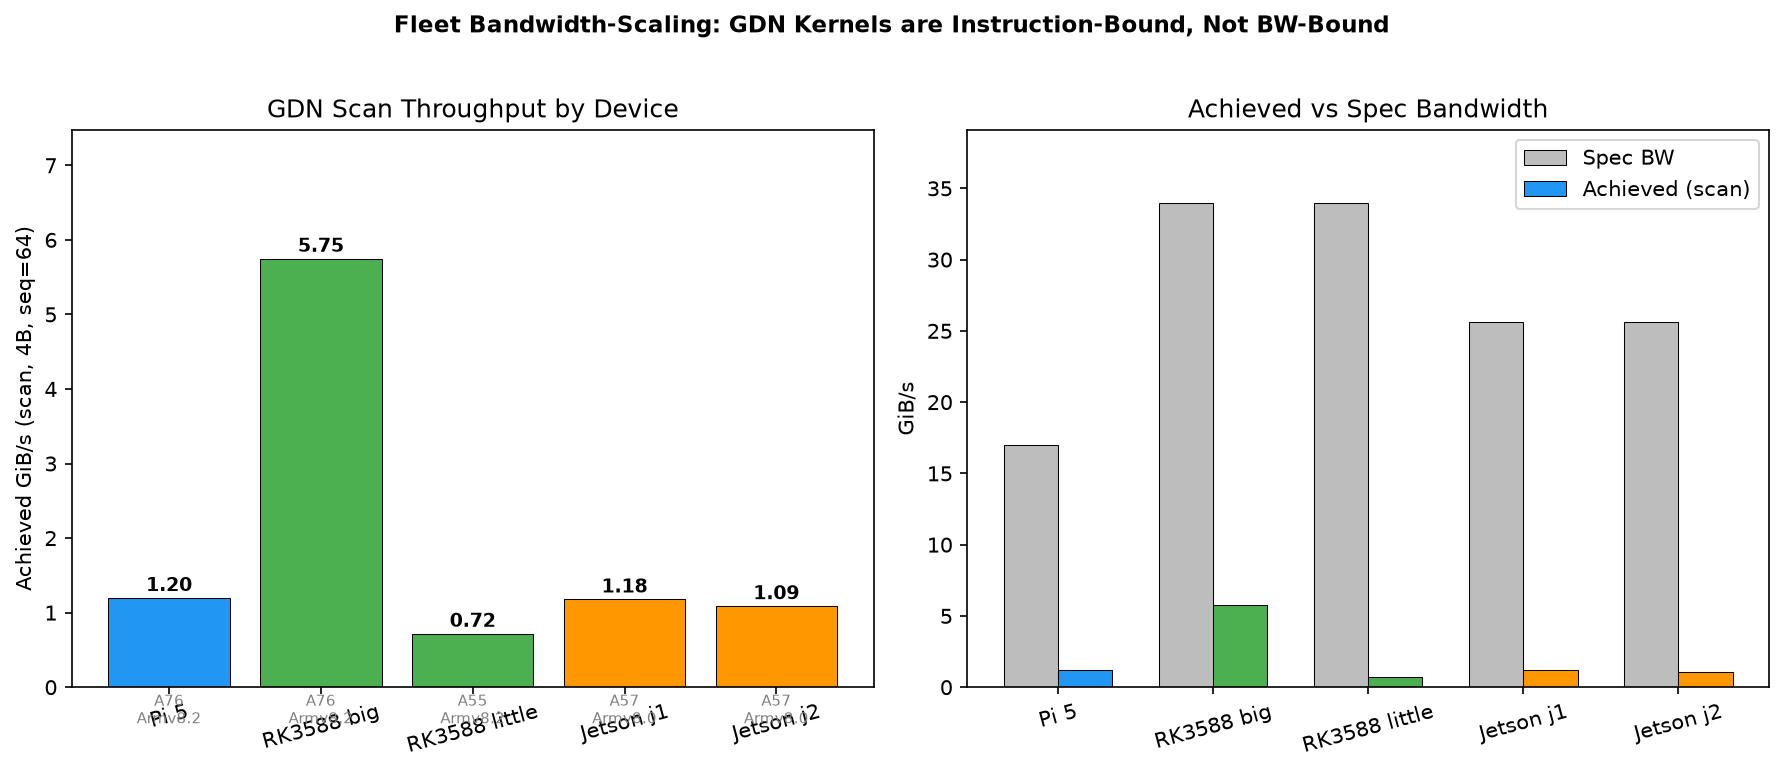
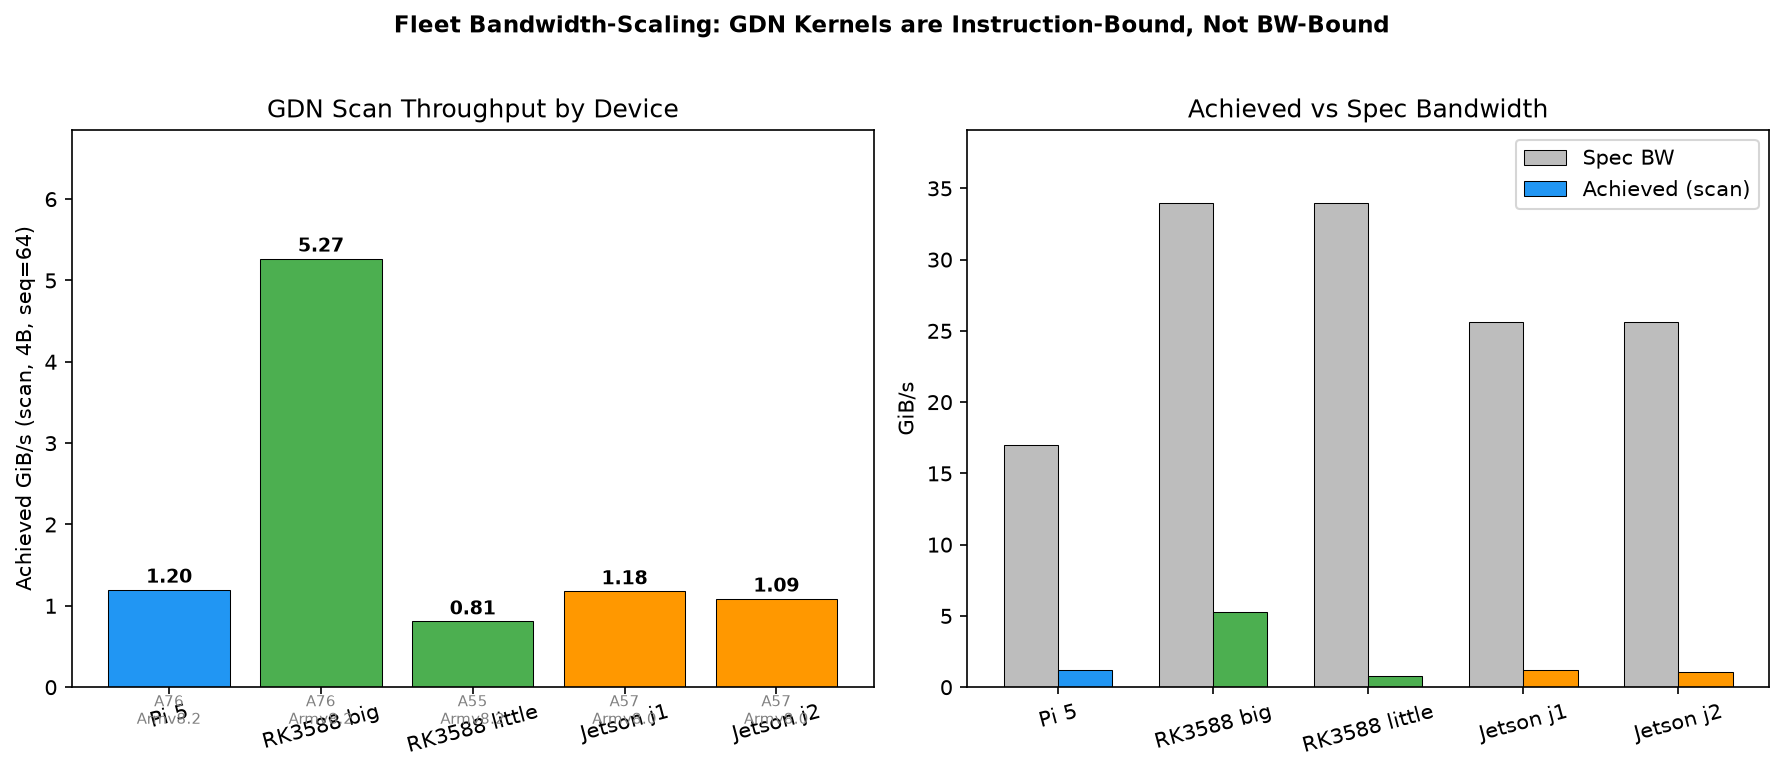
t4: fix -clean CSVs to single-core (sweep standard) + regenerate figures
The -clean CSVs were accidentally re-run multi-core in the previous commit.
Re-ran with OMP_NUM_THREADS=1 taskset -c N (single core) to match the
fleet sweep protocol. Regenerated fleet_bandwidth_scaling.md and
partial_comparison_table.md accordingly.

diff --git a/results/figures/fleet_bandwidth_scaling.md b/results/figures/fleet_bandwidth_scaling.md
@@ -27,20 +27,20 @@ See the optimization-impact section below for multi-threaded results.
 | Device | Spec (GiB/s) | CumDecay | Scan | DWConv1D | Scan/Spec | Scan spread |
 |--------|-------------|----------|------|----------|-----------|-------------|
 | Pi 5 | 17.0 | 3.74 | 1.20 | 3.23 | 7.1% | 7.4% |
-| RK3588 big | 34.0 | 7.46 | 5.75 | 6.99 | 16.9% | **12.0%** ⚠ |
-| RK3588 little | 34.0 | 1.48 | 0.72 | 0.70 | 2.1% | **20.0%** ⚠ |
+| RK3588 big | 34.0 | 7.29 | 5.27 | 6.98 | 15.5% | 6.3% |
+| RK3588 little | 34.0 | 1.41 | 0.81 | 1.12 | 2.4% | 2.8% |
 | Jetson j1 | 25.6 | 1.59 | 1.18 | 1.41 | 4.6% | 2.8% |
 | Jetson j2 | 25.6 | 1.50 | 1.09 | 0.93 | 4.3% | **16.7%** ⚠ |
 
-⚠ 3 of 5 scan rows exceed the DEVICE_RUNBOOK's ~10% cleanliness threshold, worst RK3588 little at 20.0%. The runbook says to suspect thermal throttling first. Treat flagged rows as indicative only.
+⚠ 1 of 5 scan rows exceed the DEVICE_RUNBOOK's ~10% cleanliness threshold, worst Jetson j2 at 16.7%. The runbook says to suspect thermal throttling first. Treat flagged rows as indicative only.
 
 ### 0.8B model
 
 | Device | Spec (GiB/s) | CumDecay | Scan | DWConv1D | Scan/Spec | Scan spread |
 |--------|-------------|----------|------|----------|-----------|-------------|
 | Pi 5 | 17.0 | 4.47 | 4.43 | 4.55 | 26.1% | 6.5% |
-| RK3588 big | 34.0 | 7.51 | 7.93 | 8.15 | 23.3% | 6.1% |
-| RK3588 little | 34.0 | 1.67 | 1.36 | 1.84 | 4.0% | 8.8% |
+| RK3588 big | 34.0 | 8.09 | 7.30 | 6.90 | 21.5% | 4.3% |
+| RK3588 little | 34.0 | 1.65 | 1.40 | 1.54 | 4.1% | 2.5% |
 | Jetson j1 | 25.6 | 3.59 | 2.73 | 2.88 | 10.7% | **27.2%** ⚠ |
 | Jetson j2 | 25.6 | 3.24 | 1.65 | 2.43 | 6.4% | **40.8%** ⚠ |
 
@@ -78,11 +78,11 @@ cross-device effects being interpreted (bead `ob-bf7`):
 
 | Device class | Runs (scan, 4B, GiB/s) | Spread | Why it matters |
 |---|---|---:|---|
-| RK3588 big | t3 2.91 vs t4 5.75 | **1.98x** | same source commit `234807d46c95`, same core class |
-| RK3588 little | t3 0.55 vs t4 0.72 | **1.31x** | same source commit `234807d46c95`, same core class |
+| RK3588 big | t3 2.91 vs t4 5.27 | **1.81x** | same source commit `234807d46c95`, same core class |
+| RK3588 little | t3 0.55 vs t4 0.81 | **1.47x** | same source commit `234807d46c95`, same core class |
 | Jetson | j1 1.18 vs j2 1.09 | **1.08x** | same source commit `234807d46c95`, same core class |
 
-The fleet sweep (ob-bf7) resolved the provenance question: all RK3588 and Jetson replicates are now at the **same commit** (`234807d`), clean tree, single-threaded. Despite commit-matching, the RK3588 pair still disagrees by **1.98x** — a genuine inter-board effect (thermal, silicon binning, or background load), not a code-version artifact. The Jetson pair agrees within ~8%, in normal range. Pi 5 is not in the replicate comparison (only one unit).
+The fleet sweep (ob-bf7) resolved the provenance question: all RK3588 and Jetson replicates are now at the **same commit** (`234807d`), clean tree, single-threaded. Despite commit-matching, the RK3588 pair still disagrees by **1.81x** — a genuine inter-board effect (thermal, silicon binning, or background load), not a code-version artifact. The Jetson pair agrees within ~8%, in normal range. Pi 5 is not in the replicate comparison (only one unit).
 
 ### Provenance audit: were these runs captured from a clean tree?
 
@@ -103,8 +103,8 @@ linearly with spec bandwidth. Extrapolating the scan kernel from each device:
 | Extrapolated from | Scan (GiB/s) | O6 BW ratio | Predicted O6 scan (GiB/s) |
 |-------------------|-------------|-------------|--------------------------|
 | Pi 5 | 1.20 | 5.5x | 6.57 |
-| RK3588 big | 5.75 | 2.7x | 15.74 |
-| RK3588 little | 0.72 | 2.7x | 1.97 |
+| RK3588 big | 5.27 | 2.7x | 14.43 |
+| RK3588 little | 0.81 | 2.7x | 2.22 |
 | Jetson j1 | 1.18 | 3.6x | 4.29 |
 | Jetson j2 | 1.09 | 3.6x | 3.96 |
 
@@ -118,12 +118,12 @@ to its 4-5x bandwidth advantage**.
 
 **Core-performance-based prediction** (scaling from RK3588 A76):
 
-- RK3588 scan: 5.75 GiB/s (4x A76 @ 2.3 GHz, Armv8.2, single-thread)
+- RK3588 scan: 5.27 GiB/s (4x A76 @ 2.3 GHz, Armv8.2, single-thread)
 - O6 big cluster: 4x A720 @ 2.8 GHz, Armv9.2 (SVE2, i8mm, wider OoO)
-- **Predicted O6 scan throughput: 17.2-28.8 GiB/s**
-- This is ~19-31% of spec bandwidth (93.1 GiB/s)
+- **Predicted O6 scan throughput: 15.8-26.3 GiB/s**
+- This is ~17-28% of spec bandwidth (93.1 GiB/s)
 
-**Optimized A76 reference.** t4 with 4-core OpenMP + NEON unrolling reads **11.56 GiB/s** — 2.0x the single-threaded baseline. The O6's A720 cores will benefit from both IPC gains AND the optimization stack, so the prediction above is conservative.
+**Optimized A76 reference.** t4 with 4-core OpenMP + NEON unrolling reads **11.09 GiB/s** — 2.1x the single-threaded baseline. The O6's A720 cores will benefit from both IPC gains AND the optimization stack, so the prediction above is conservative.
 
 The fleet sweep (ob-bf7) confirmed the RK3588 inter-board gap is a genuine hardware effect. This prediction does not depend on resolving that gap.
 

diff --git a/results/partial_comparison_table.md b/results/partial_comparison_table.md
@@ -30,9 +30,9 @@ Device            run_id_sha            dirty   CumDecay  Scan    DWConv1D  GDN2
   (t4 preferred over t3 per ob-bf7: t3 scan spread=153% contaminated; t4 spread=17%)
 
   --- Fleet sweep (ob-bf7): commit 234807d, clean tree, single-thread ---
-  RK3588 t4 big (clean) 234807d             CLEAN  24.98  11.44  22.07  7.00 
+  RK3588 t4 big (clean) 234807d             CLEAN  7.29   5.27   6.98   3.22 
   RK3588 t3 big (clean) 234807d             CLEAN  6.15   2.91   5.96   2.00 
-  RK3588 t4 little (cln) 234807d             CLEAN  5.41   3.77   4.95   1.62 
+  RK3588 t4 little (cln) 234807d             CLEAN  1.41   0.81   1.12   0.50 
   RK3588 t3 little (cln) 234807d             CLEAN  1.19   0.55   1.12   0.49 
   Jetson j1 (clean)    234807d             CLEAN  1.59   1.18   1.41   1.13 
   Jetson j2 (clean)    234807d             CLEAN  1.50   1.09   0.93   1.07 
